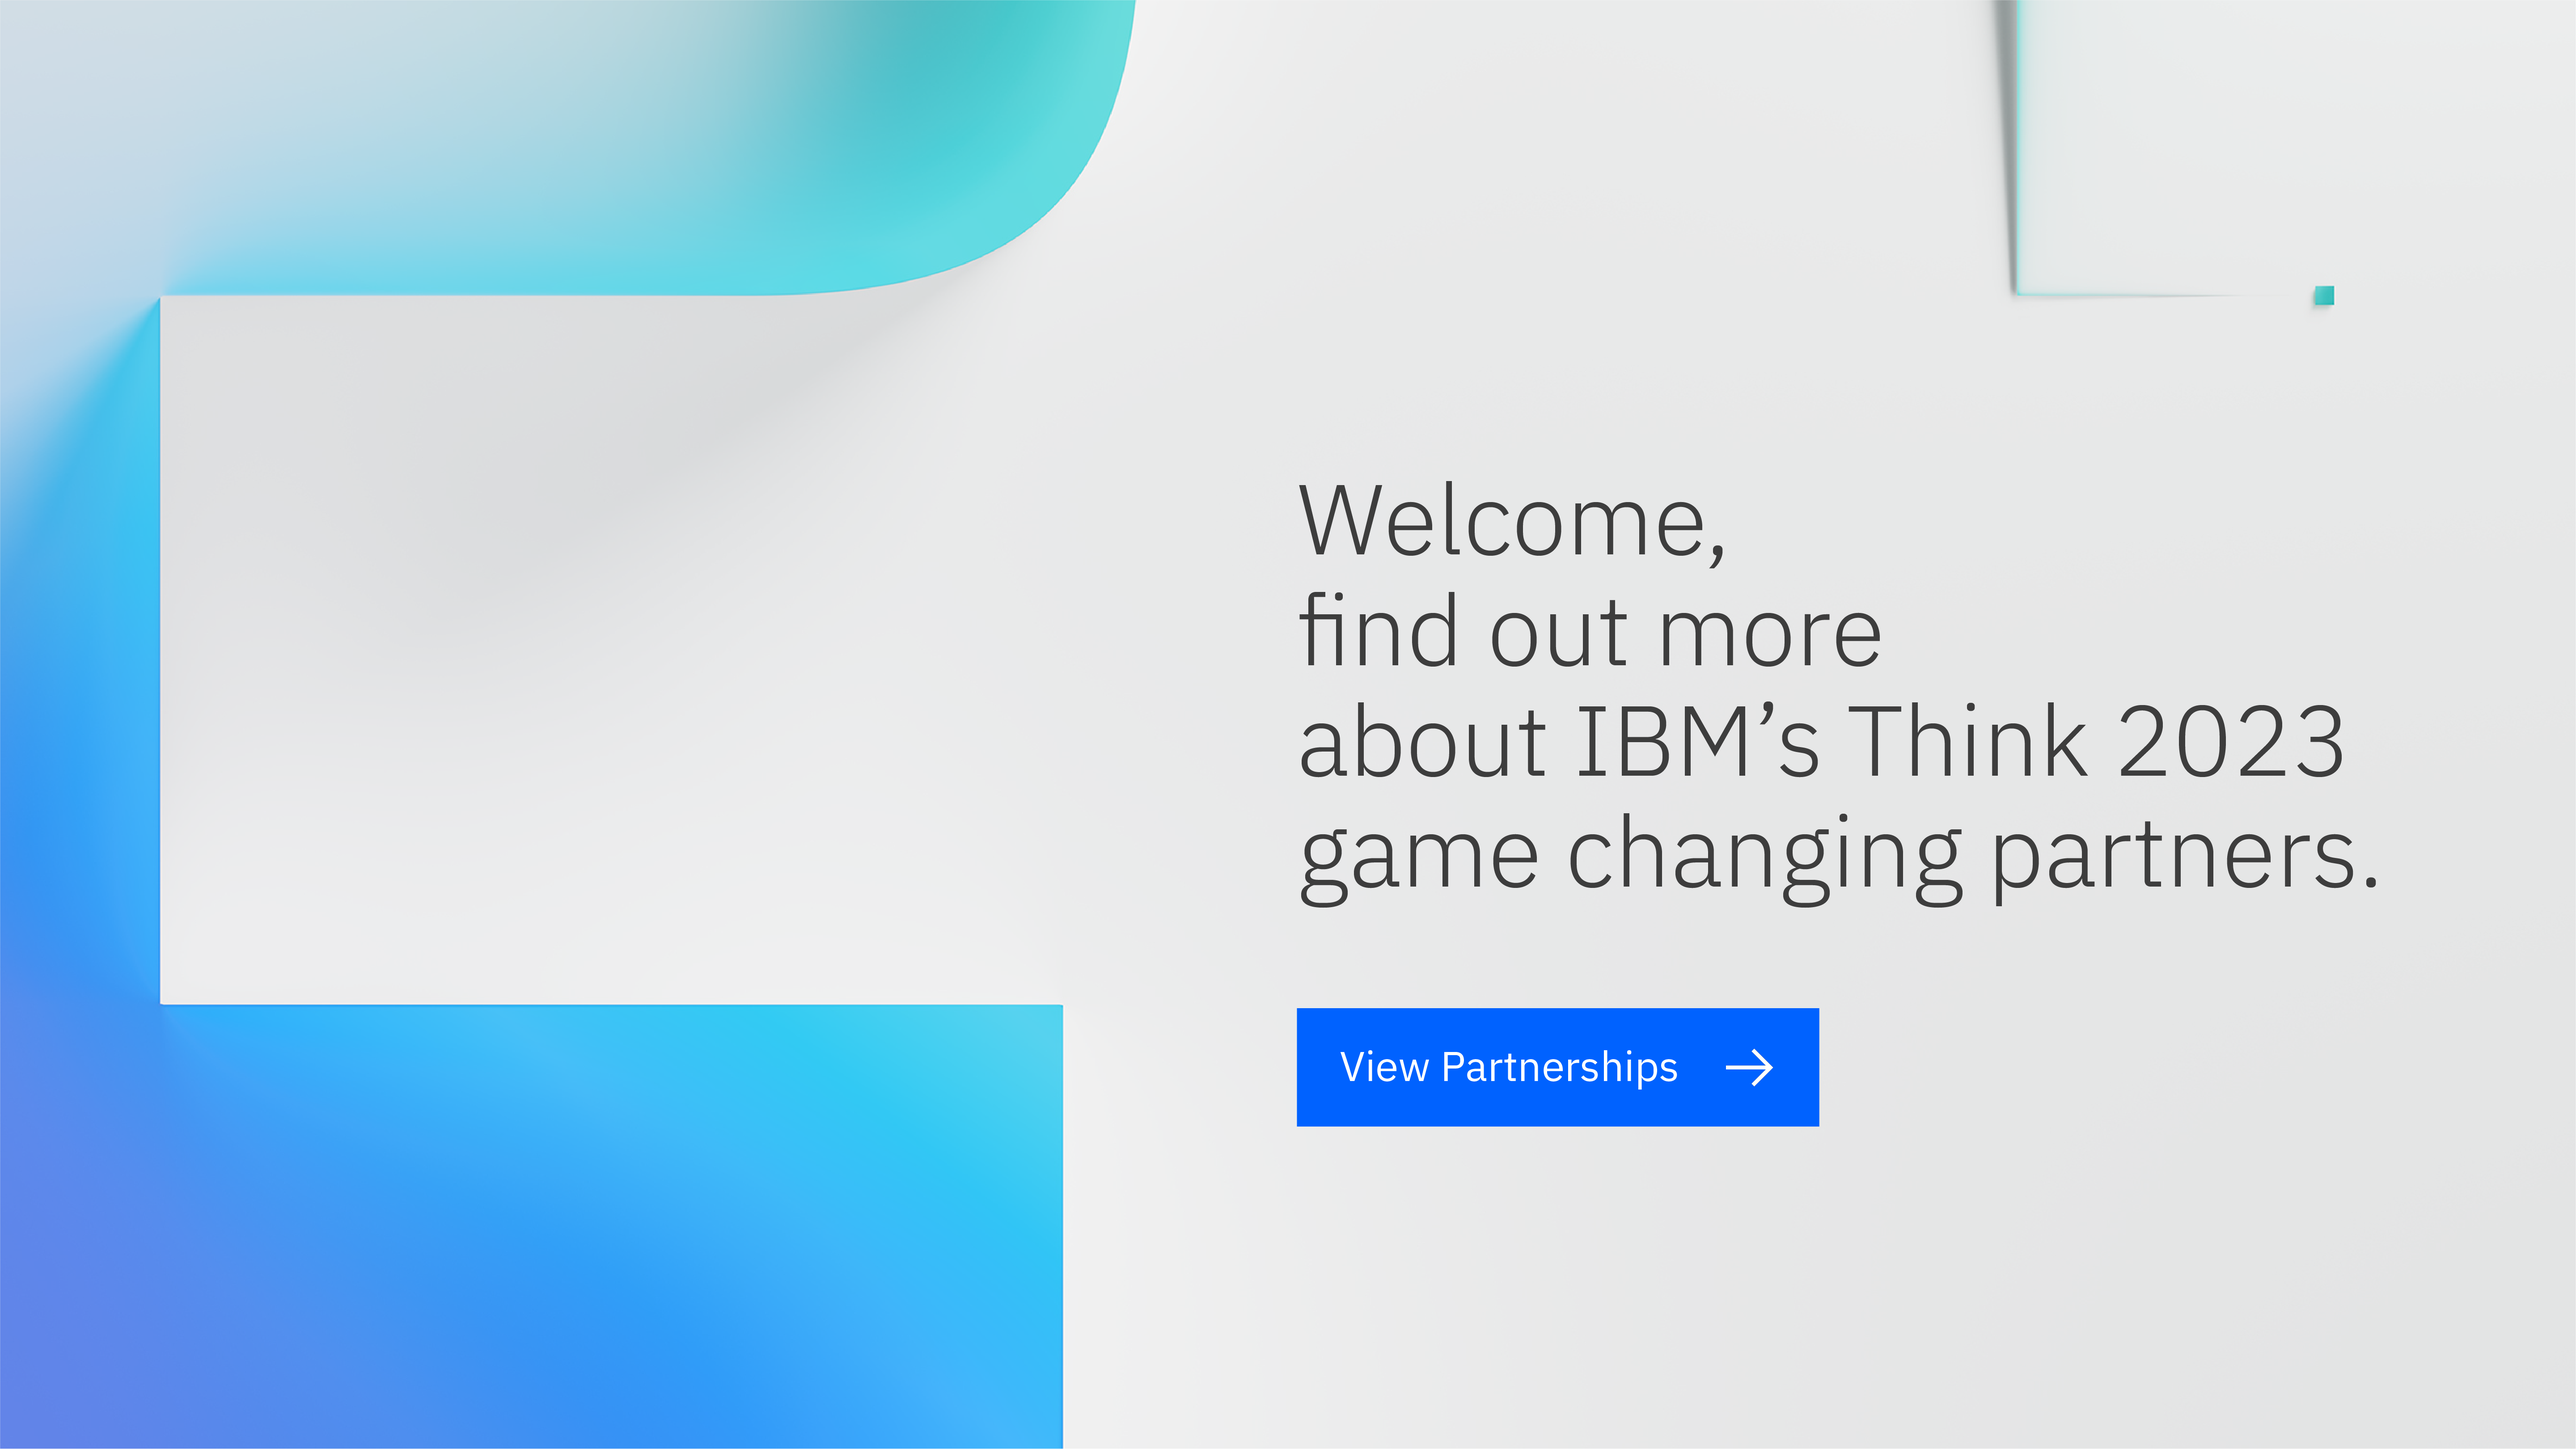
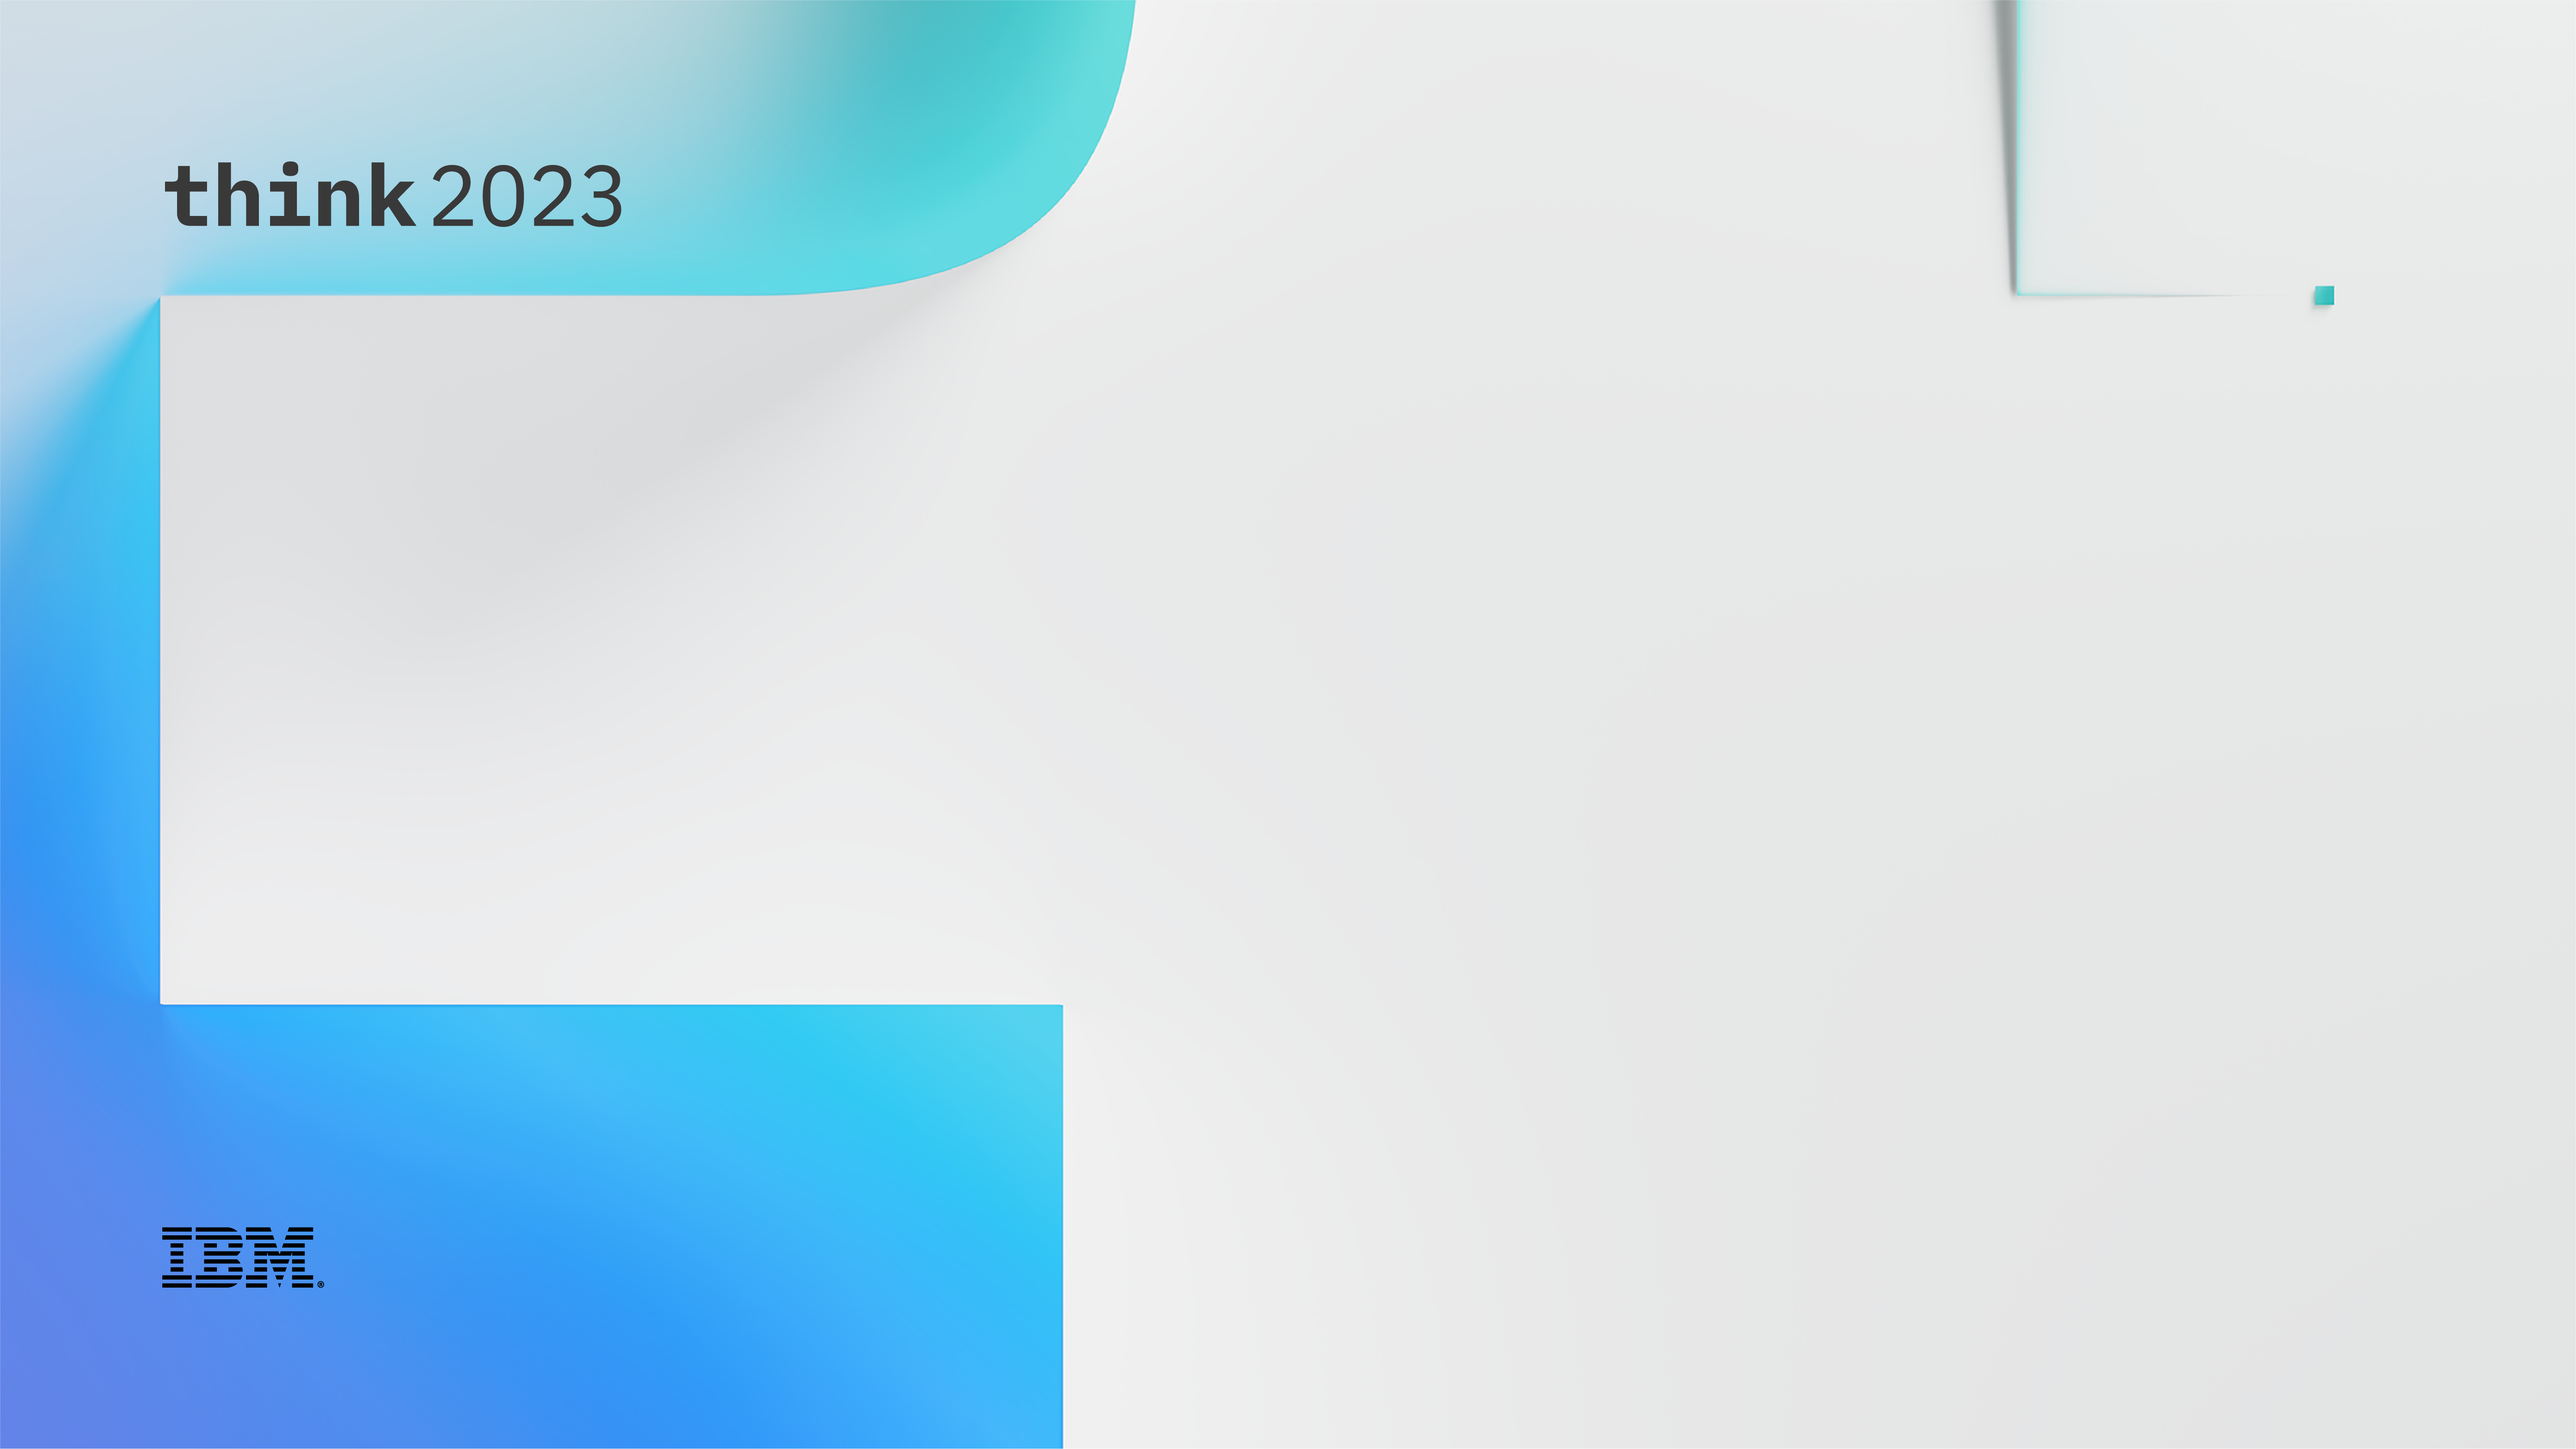
Updated Home Page

diff --git a/home.html b/home.html
@@ -2,67 +2,7 @@
 <html>
   <head>
     <title>Home</title>
-    <style>
-      body {
-        margin: 0;
-        padding: 0;
-        height: 100vh;
-        display: flex;
-        justify-content: center;
-        align-items: center;
-      }
-      
-      #container {
-        width: calc(100vh * 16 / 9);
-        height: 100vh;
-        background-color: #fff;
-      }
-
-      #container .bg {
-        width: 100%;
-        height: 100%;
-        object-fit: cover;
-      }
-
-      a {
-        color: #fff;
-        text-decoration: none;
-      }
-
-      .primary {
-        background-color: #0062FF;
-        z-index: 1;
-        position: absolute;
-        left: 958px;
-        /* top: 657px; */
-        top:550px;
-        width: 339px;
-        height: 75px;
-        border: none;
-        font-family: 'IBM Plex Sans', sans-serif;
-        font-style: normal;
-        font-weight: lighter;
-        font-size: 24px;
-        text-decoration: none;
-      }
-      
-      .headline {
-        z-index: 1;
-        position: absolute;
-        left: 958px;
-        top: 300px;
-        height: 75px;
-        border: none;
-        font-family: 'IBM Plex Sans', sans-serif;
-        font-style: normal;
-        font-weight: light;
-        font-size: 64px;
-        line-height: 72px;
-        text-align: left;
-        color: #3D3D3D;
-      }
-
-    </style>
+    <link rel="stylesheet" type="text/css" href="home.css" /> 
   </head>
   <body>
     <div id="container">

diff --git a/home.css b/home.css
@@ -1,0 +1,60 @@
+body {
+    margin: 0;
+    padding: 0;
+    height: 100vh;
+    display: flex;
+    justify-content: center;
+    align-items: center;
+  }
+  
+  #container {
+    width: calc(100vh * 16 / 9);
+    height: 100vh;
+    background-color: #fff;
+  }
+
+  #container .bg {
+    width: 100%;
+    height: 100%;
+    object-fit: cover;
+  }
+
+  a {
+    color: #fff;
+    text-decoration: none;
+  }
+
+/* Buttons */
+
+  .primary {
+    background-color: #0062FF;
+    z-index: 1;
+    position: absolute;
+    left: 967px;
+    /* top: 657px; */
+    top:750px;
+    width: 390px;
+    height: 91px;
+    border: none;
+    font-family: 'IBM Plex Sans', sans-serif;
+    font-style: normal;
+    font-weight: lighter;
+    font-size: 24px;
+    text-decoration: none;
+  }
+  
+  .headline {
+    z-index: 1;
+    position: absolute;
+    left: 958px;
+    top: 360px;
+    height: 75px;
+    border: none;
+    font-family: 'IBM Plex Sans', sans-serif;
+    font-style: normal;
+    font-weight: light;
+    font-size: 64px;
+    line-height: 72px;
+    text-align: left;
+    color: #3D3D3D;
+  }

diff --git a/partners/arrow.html b/partners/arrow.html
@@ -33,12 +33,10 @@
   </head>
   <body>
     <div id="container">
-      <img class="bg" src="img/partner.png" alt="partner">
+      <img class="bg" src="img/partner.png" alt="Paris">
       <div class="headline">Welcome, <br>find out more<br> about IBM's Think 2023<br> game changing partners.
       </div>
-      <button class="primary" >
-        <a href="/partner.html">View Partnerships</a>
-      </button>
+      <button class="primary" ><a href="/partner.html">View Partnerships</a></button>
     </div>
   </body>
 </html>
